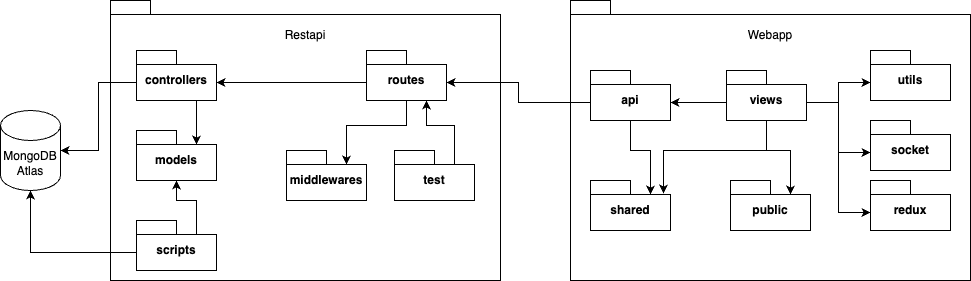
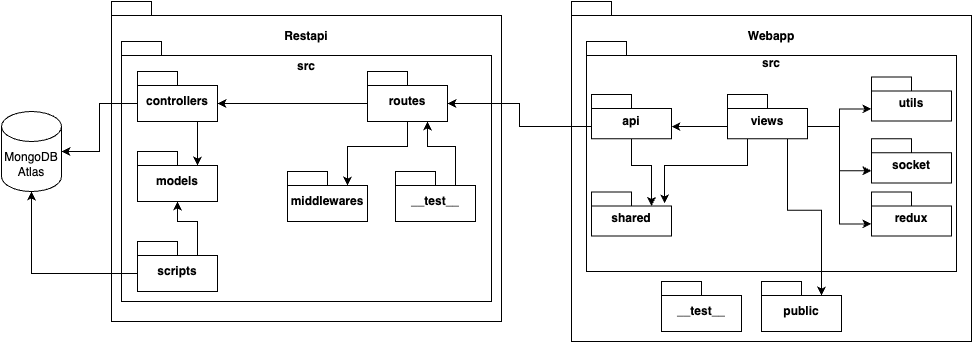
base paquetes

diff --git a/6-Analisis-del-sistema-de-informacion/6_6-Analisis-clases.tex b/6-Analisis-del-sistema-de-informacion/6_6-Analisis-clases.tex
@@ -1,3 +1,57 @@
+En este apartado se define el diseño de las clases que componen el sistema desarrollado. 
+En primer lugar, se presenta el diagrama de paquetes, que muestra la estructura de los paquetes que componen el sistema.
+Posteriormente, se presenta el diagrama de clases, que muestra las clases que componen el sistema y las relaciones entre ellas así como una descripción.
+
+\subsection{Diagrama de paquetes} 
+El sistema se divide en dos paquetes principales:
+\begin{itemize}
+    \item \textbf{restapi}: se corresponde con el \textit{backend} del sistema, contiene las clases que implementan la API REST del sistema y la lógica de negocio.
+    \item \textbf{frontend}: se corresponde con el \textit{frontend} del sistema, contiene las clases que implementan la interfaz de usuario.
+\end{itemize}
+
+En la \coloredUnderline{\hyperlink{fig:6_5_Diagrama-Paquetes}{Figura \ref*{fig:6_5_Diagrama-Paquetes}: \nameref*{fig:6_5_Diagrama-Paquetes}}} se muestra el diagrama de paquetes del sistema.
+\begin{figure}[H]
+    \hypertarget{fig:6_5_Diagrama-Paquetes}{}
+    \centering
+    \includegraphics[width=0.8\linewidth]{figures/6-Analisis/6-Clases/6_5-vista_general-paquetes.png}
+    \caption{Diagrama de Paquetes del Sistema}
+    \label{fig:6_5_Diagrama-Paquetes}
+\end{figure}
+
+\subsection{Descripción de los Paquetes}
+\subsubsection{restapi}
+El paquete \textbf{restapi} contiene las clases que implementan la API REST del sistema y la lógica de negocio. Este paquete se divide en los siguientes subpaquetes:
+\begin{itemize}
+    \item \textbf{controllers}: contiene las clases que implementan los controladores de la API REST, se encargan de gestionar las peticiones HTTP y las respuestas. Se comunica con la base de datos.
+    \item \textbf{models}: contiene las clases que implementan los modelos de datos del sistema.
+    \item \textbf{routes}: contiene las clases que implementan las rutas de la API REST, se encargan de definir las rutas y los métodos HTTP asociados.
+    \item \textbf{middlewares}: contiene las clases que implementan los middlewares de la API REST, se encargan de gestionar la autenticación y la autorización de los usuarios.
+    \item \textbf{scripts}: contiene las clases que implementan los scripts de inicialización de la base de datos.
+    \item \textbf{tests}: contiene las clases que implementan las pruebas unitarias de las clases de los otros subpaquetes.
+\end{itemize}
+
+
+\subsubsection{frontend}
+El paquete \textbf{frontend} contiene las clases que implementan la interfaz de usuario. Este paquete se divide en los siguientes subpaquetes:
+\begin{itemize} 
+    \item \textbf{src}: contiene las clases que implementan la lógica de la interfaz de usuario.
+    \begin{itemize}
+        \item \textbf{api}: contiene las clases que implementan la API del frontend, se encargan de gestionar las peticiones HTTP/HTTPS al backend.
+        \item \textbf{views}: contiene las clases que implementan las vistas de la interfaz de usuario. A su vez, se divide en los siguientes subpaquetes:
+        \begin{itemize}
+            \item \textbf{components}: contiene las clases que implementan los componentes de la interfaz de usuario.
+            \item \textbf{pages}: contiene las clases que implementan las páginas de la interfaz de usuario.
+        \end{itemize}
+        \item \textbf{redux}: contiene las clases que implementan los estados de Redux.
+        \item \textbf{socket}: contiene las clases que implementan la conexión con Socket.io.
+        \item \textbf{shared}: contiene las clases que implementan los tipos de datos compartidos entre las distintas partes de la interfaz de usuario.
+        \item \textbf{utils}: contiene las clases que implementan utilidades de la interfaz de usuario.
+    \end{itemize}
+    \item \textbf{public}: contiene los archivos estáticos de la interfaz de usuario.
+    \item \textbf{tests}: contiene las clases que implementan las pruebas de la interfaz de usuario.
+\end{itemize}
+
 \subsection{Diagrama de Clases} 
 
 \subsection{Descripción de las Clases}
+
